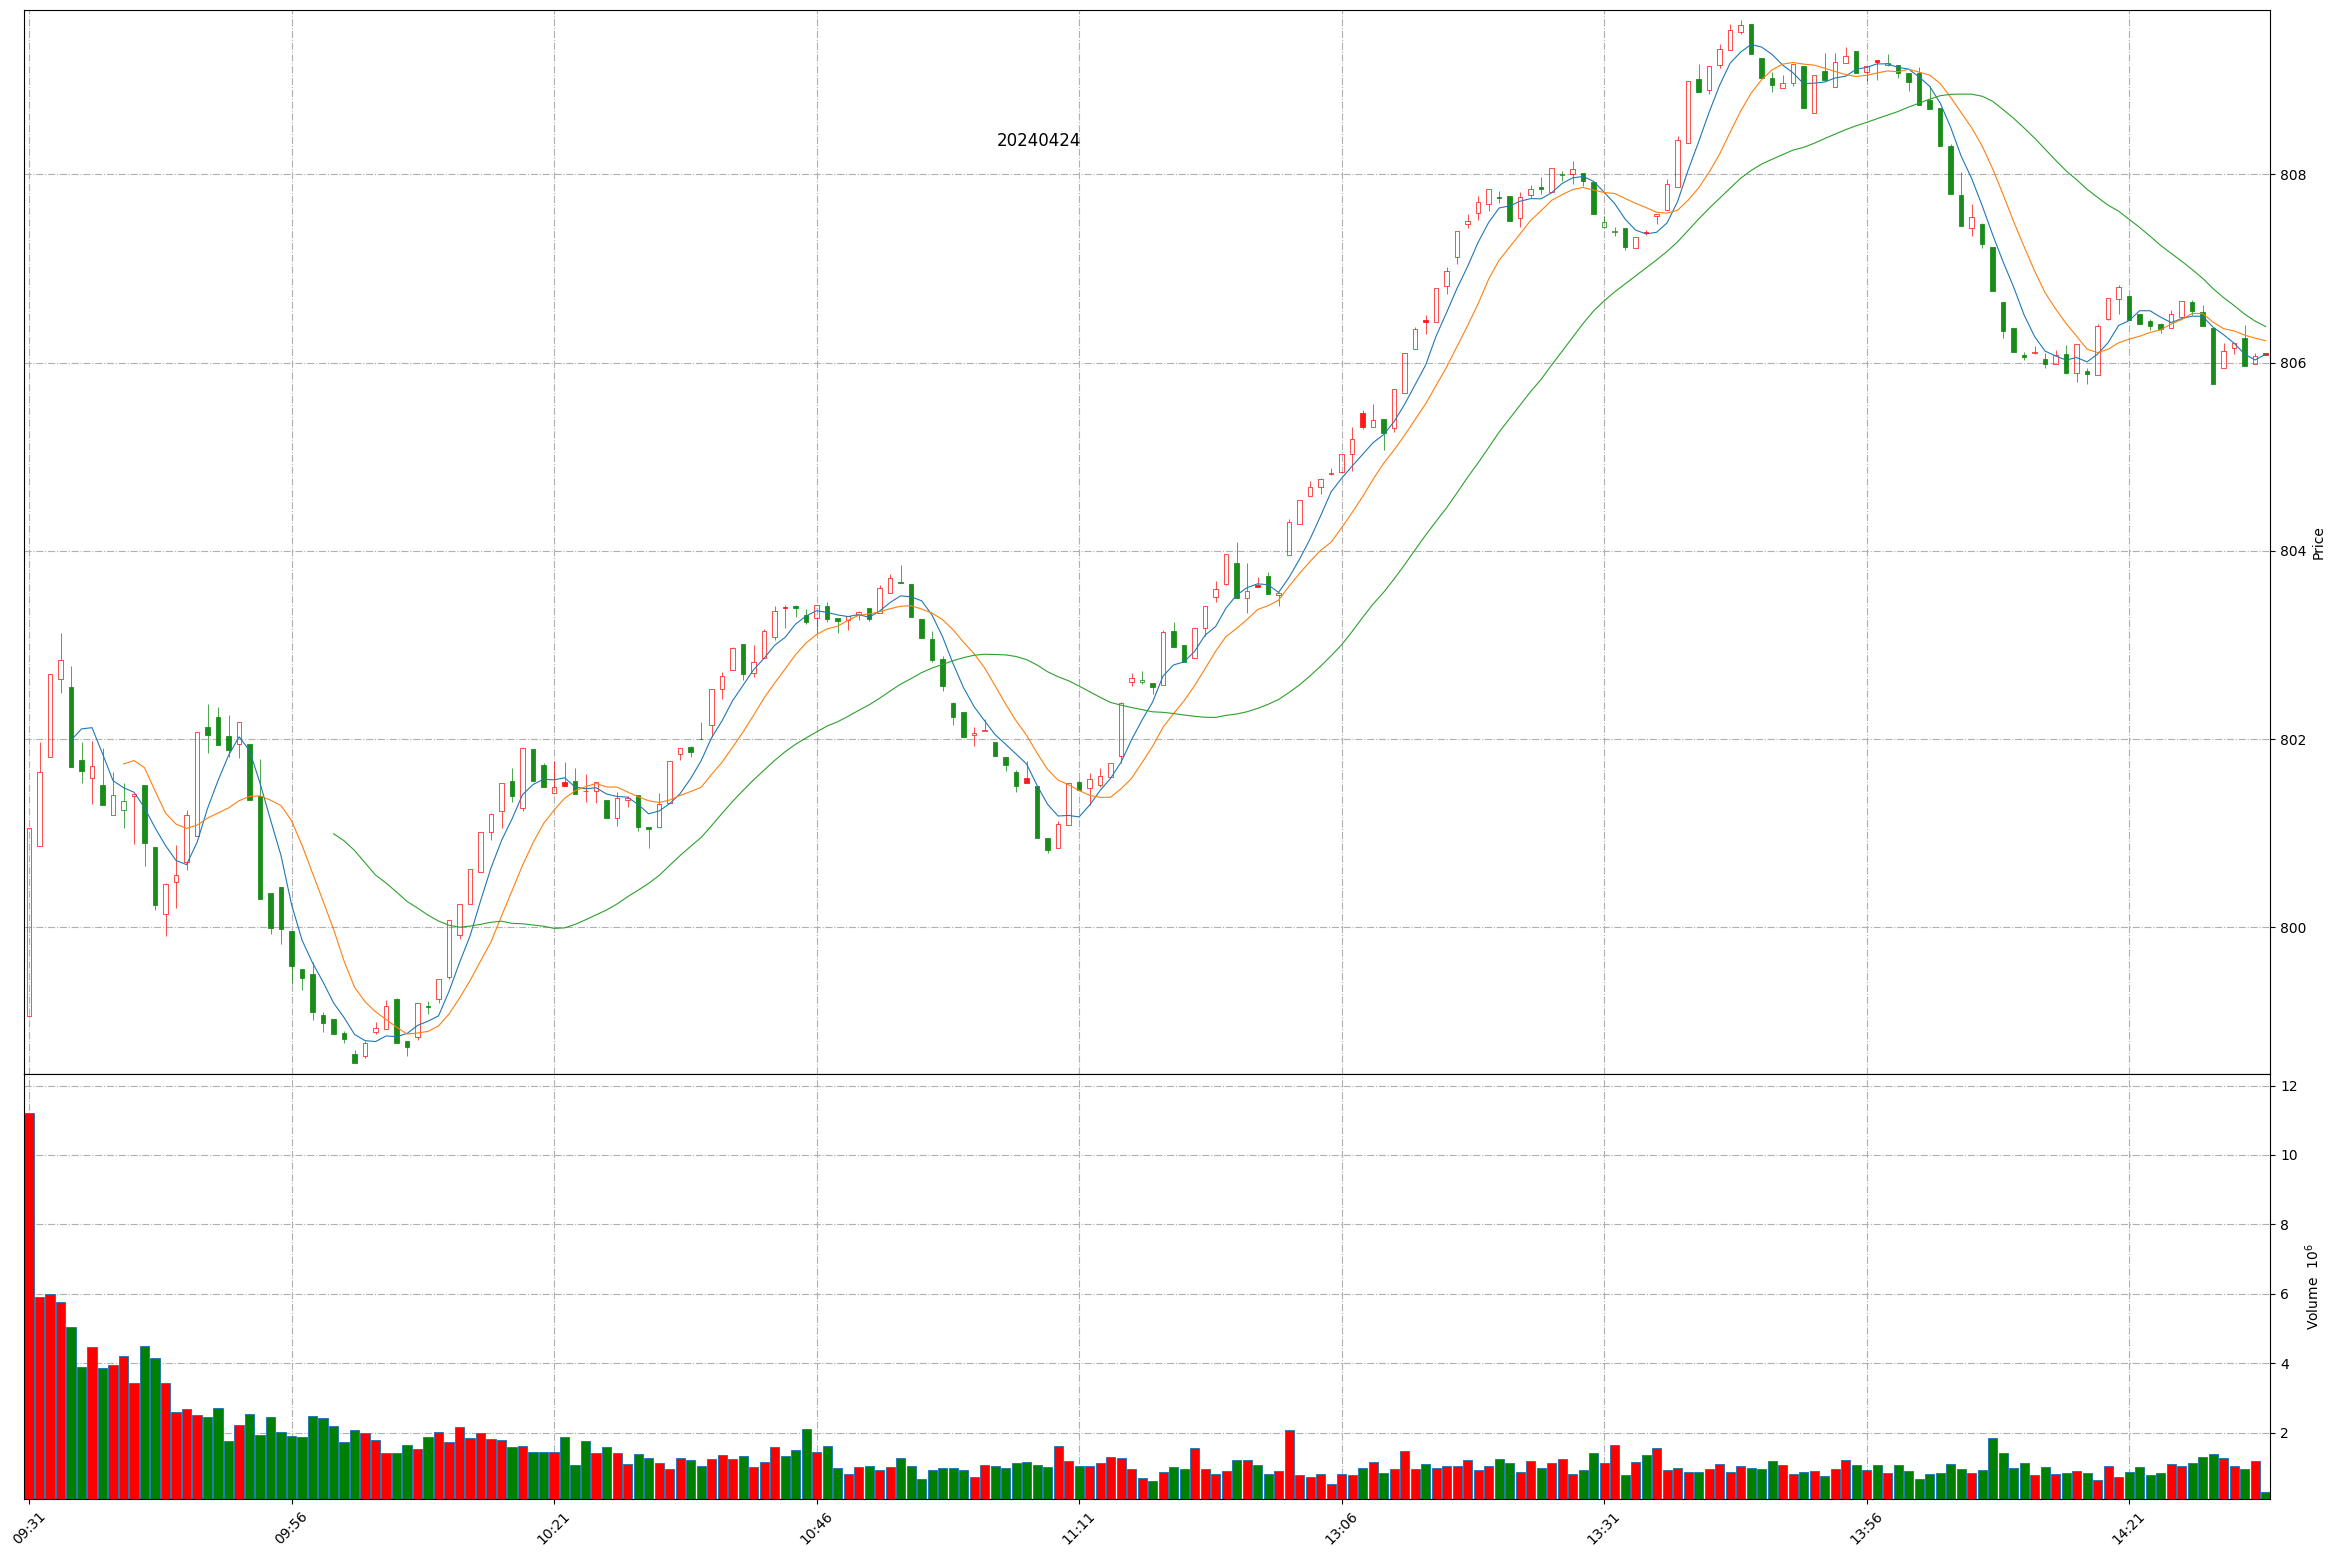
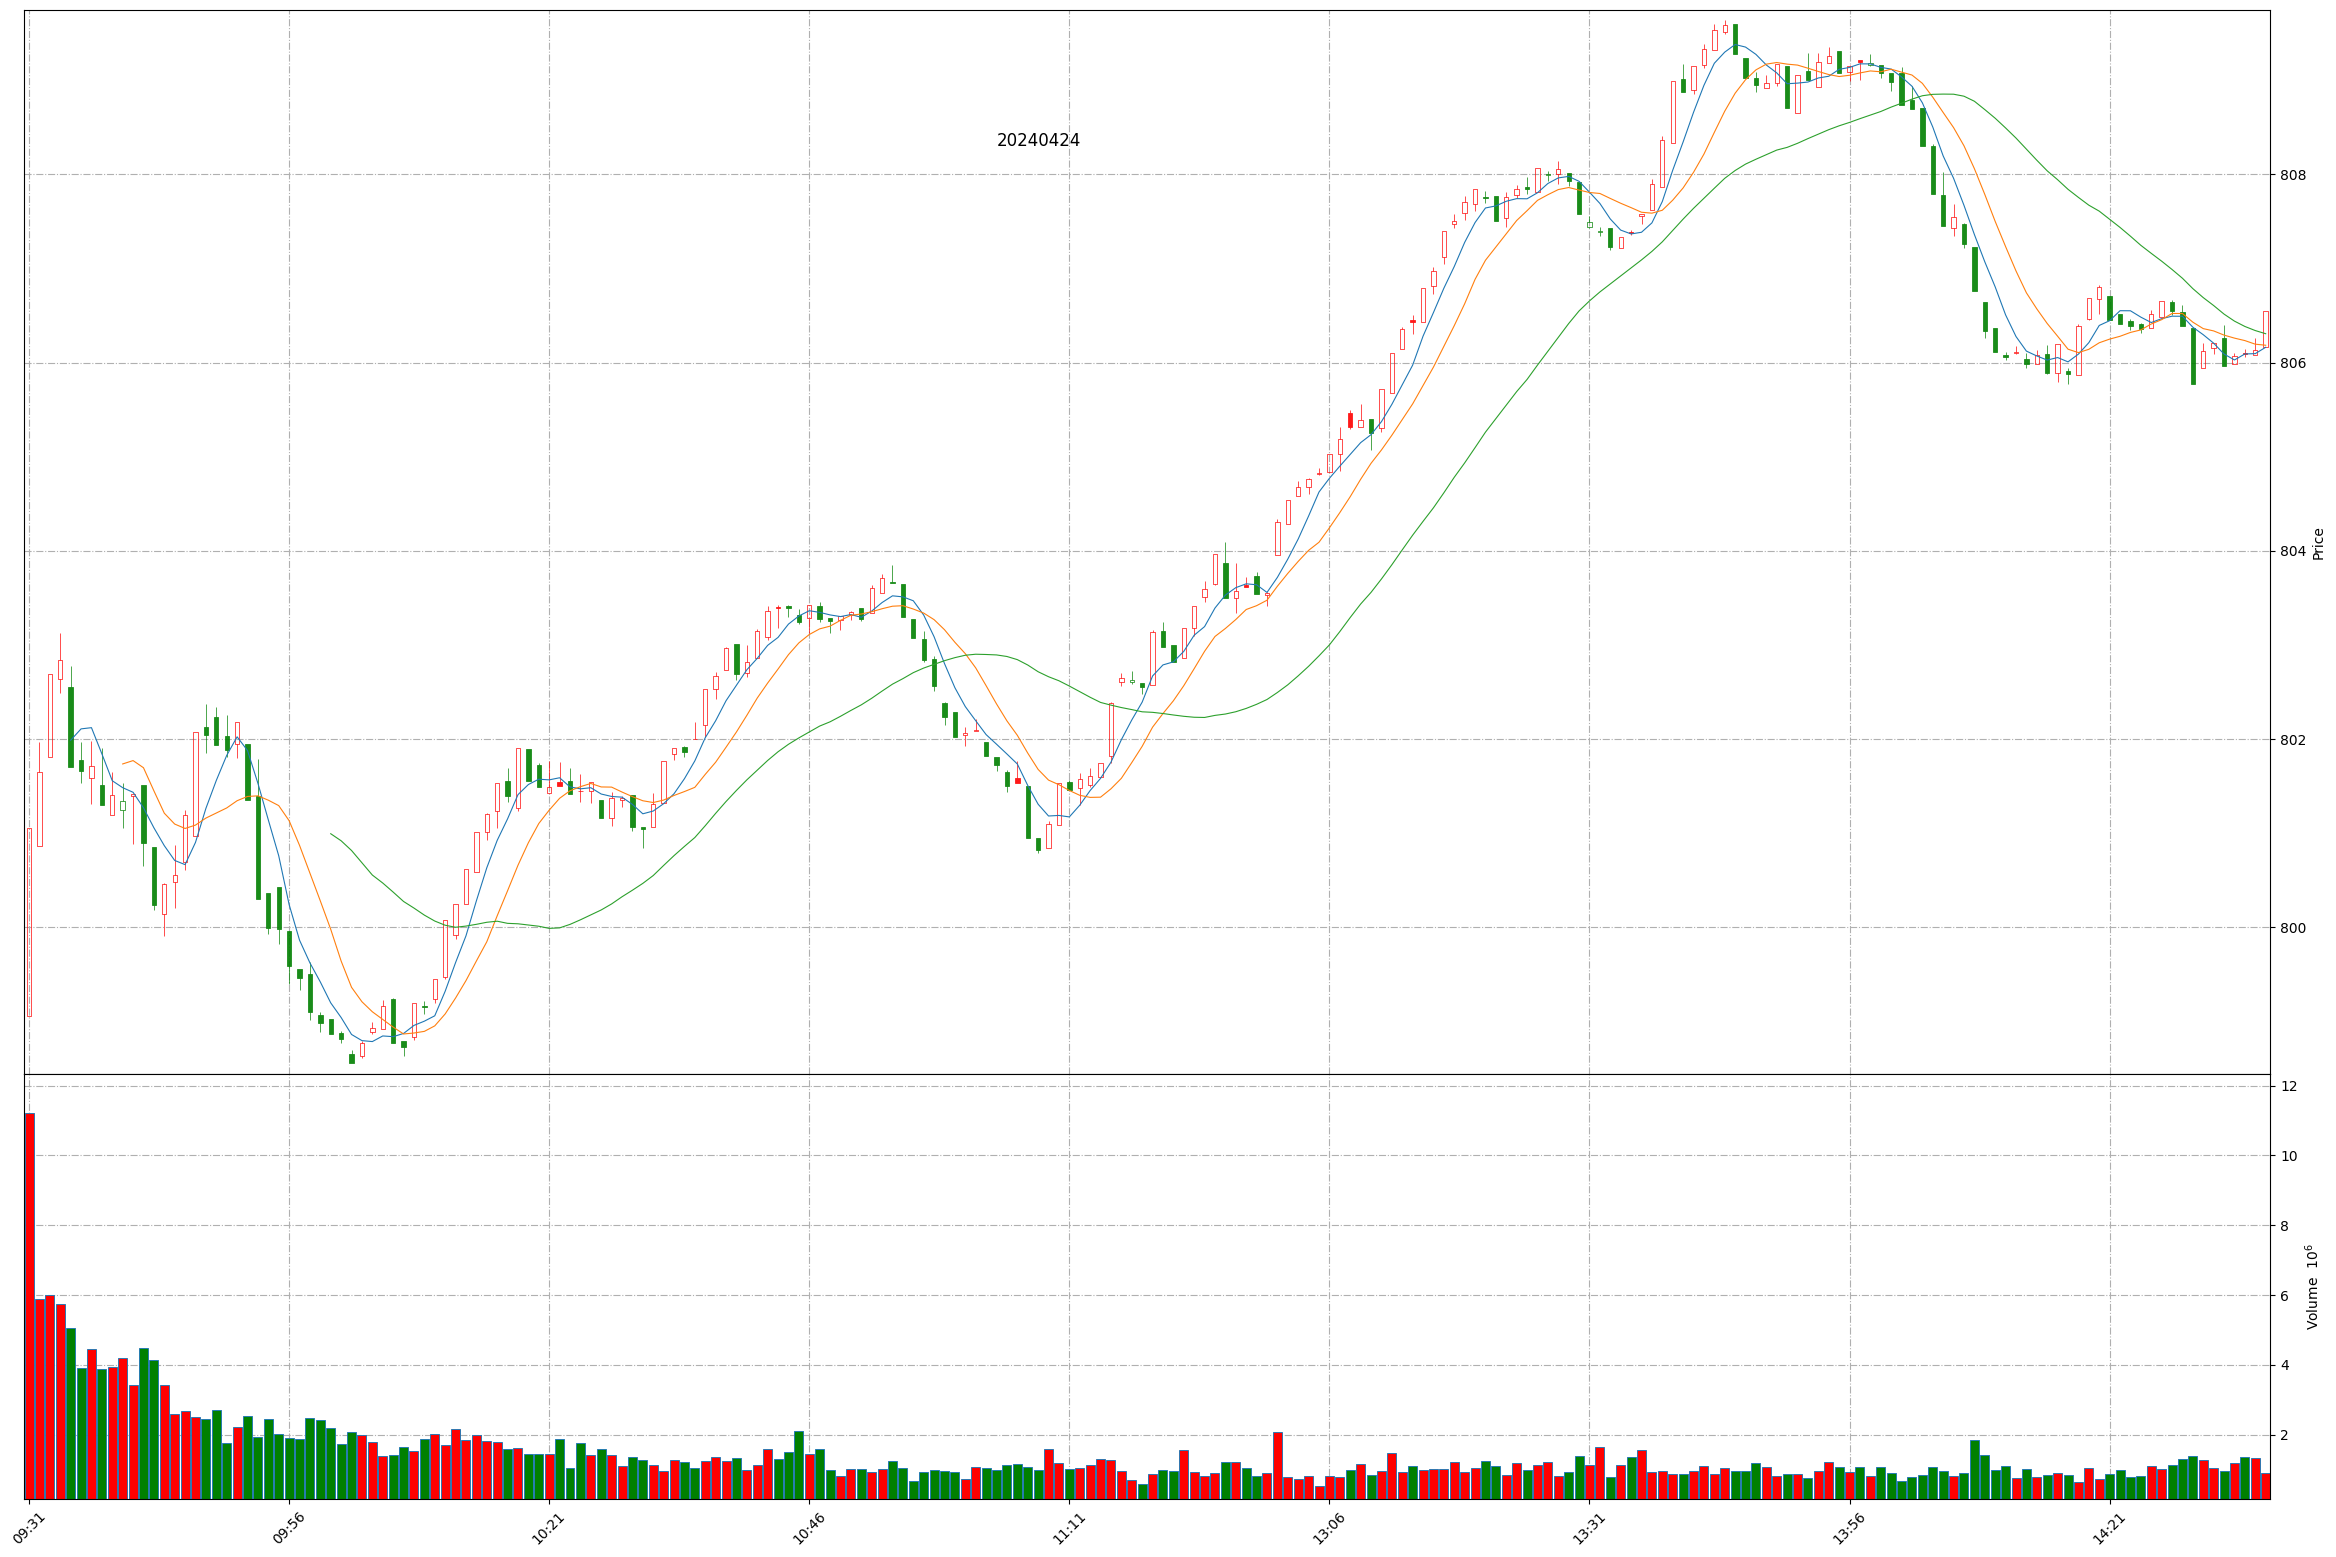
Github action update at 2024-04-24 14:35:57.

diff --git a/README.md b/README.md
@@ -1,11 +1,11 @@
 
 # Daily-A-share-market-quotes 每日 A 股指数（5min 更新）- 20240424
 
-### 上证指数 20240424 14:33
+### 上证指数 20240424 14:35
 ![](./fig/2024/4/20240424-sh000001.png)
 
-### 深证成指 20240424 14:33
+### 深证成指 20240424 14:35
 ![](./fig/2024/4/20240424-sz399001.png)
 
-### 北证50 20240424 14:33
+### 北证50 20240424 14:35
 ![](./fig/2024/4/20240424-bj899050.png)
